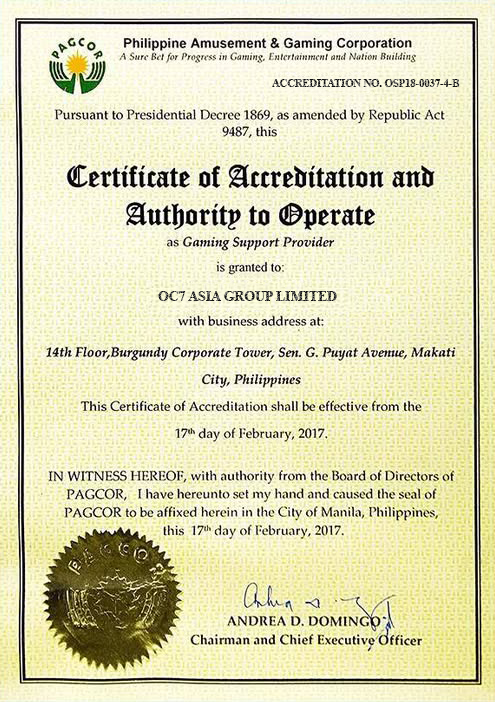
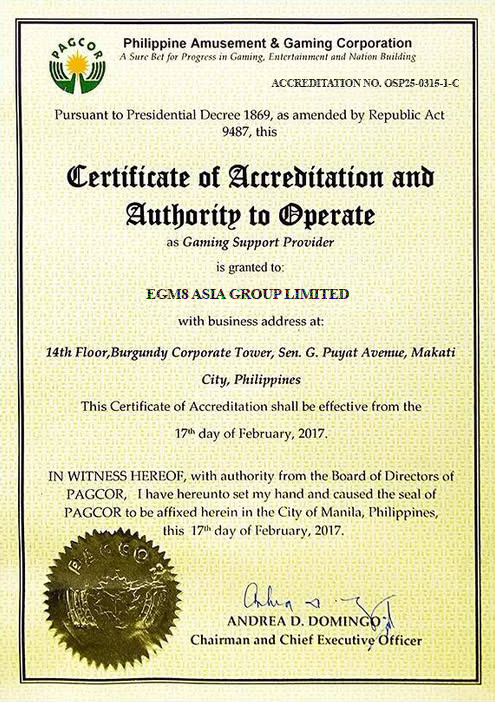
2

Changed region(s): [[0.303, 0.3889, 0.697, 0.4487], [0.5455, 0.0897, 0.7576, 0.1496], [0.7879, 0.0897, 0.9091, 0.1496]]

diff --git a/pages/games/slots.vue b/pages/games/slots.vue
@@ -24,7 +24,9 @@
         />
       </section>
 
-      <section class="py-4 px-16 max-lg:p-4 border-t border-[#3b1c23]">
+      <section
+        class="py-4 px-16 max-lg:pt-4 max-lg:pb-2 max-lg:px-4 border-t border-[#3b1c23]"
+      >
         <div>
           <div class="flex justify-between items-center">
             <div>
@@ -40,9 +42,7 @@
       </section>
 
       <!-- Slot Kiosks-->
-      <section
-        class="py-4 px-8 bg-[#241017] border-t border-b border-[#3b1c23] shadow-sm max-lg:py-2 max-lg:px-3"
-      >
+      <section class="py-4 px-8 max-lg:py-2 max-lg:px-3">
         <div
           class="flex flex-wrap gap-4 justify-center max-lg:flex-nowrap max-lg:overflow-x-auto max-lg:justify-start max-lg:scrollbar-hide max-lg:-mx-2 max-lg:px-2 max-lg:pb-2"
         >
@@ -95,7 +95,7 @@
         v-if="
           currentKiosk && !currentKiosk.isManualGame && !currentKiosk.isHTMLGame
         "
-        class="py-10 px-16 max-xl:px-8 max-lg:px-4 max-lg:py-4 bg-[#1A0D13]"
+        class="py-10 px-16 max-xl:px-8 max-lg:px-4 max-lg:py-4 bg-[#160a0f]"
       >
         <div>
           <div
@@ -131,7 +131,7 @@
 
           <div
             v-if="paginatedGames.length > 0"
-            class="grid grid-cols-8 max-2xl:grid-cols-6 max-lg:grid-cols-5 max-md:grid-cols-4 max-sm:grid-cols-2 gap-5"
+            class="grid grid-cols-8 max-2xl:grid-cols-6 max-lg:grid-cols-5 max-md:grid-cols-4 max-sm:grid-cols-2 gap-5 max-lg:gap-3"
           >
             <div
               v-for="game in paginatedGames"
@@ -143,9 +143,8 @@
                   gameType: game.GameType,
                 })
               "
-              class="bg-[#241017] rounded-xl overflow-hidden cursor-pointer shadow-sm transition-all duration-300 group border border-[#3b1c23]"
+              class="bg-[#241017] rounded-xl overflow-hidden cursor-pointer shadow-sm transition-all duration-300 group border border-[#3b1c23] lg:hover:shadow-md lg:hover:shadow-red-500/20 lg:hover:border-[#ff3344]/50"
             >
-              <!-- Image container with Play Now overlay on hover -->
               <div class="relative overflow-hidden">
                 <div
                   class="w-full aspect-square flex items-center justify-center bg-[#15090e]"
@@ -155,7 +154,7 @@
                       ($i18n.locale === 'zh' && game.GameImageZH) ||
                       ($i18n.locale === 'ms' && game.GameImageMS) ||
                       game.GameImage ||
-                      `https://placehold.co/300x300/e2e8f0/475569?text=${encodeURIComponent(
+                      `https://placehold.co/300x300/241017/f0eaea?text=${encodeURIComponent(
                         getLocalizedGameName(game)
                       )}`
                     "
@@ -204,11 +203,11 @@
                       class="flex items-center bg-[#15090e] rounded-full px-2 py-0.5 border border-[#3b1c23]"
                     >
                       <span
-                        class="text-xs font-medium text-amber-600 flex items-center gap-1"
+                        class="text-xs font-medium text-amber-500 flex items-center gap-1"
                       >
                         <Icon
                           icon="mdi:trophy"
-                          class="text-amber-500 text-2xs"
+                          class="text-amber-500 text-xs"
                         />
                         {{ game.RTP }}
                       </span>
@@ -243,34 +242,37 @@
               {{ $t("clear_search") }}
             </button>
           </div>
+
           <!-- Pagination -->
           <div
             v-if="filteredGameList.length > gamesPerPage"
-            class="flex justify-center mt-4"
+            class="flex justify-center mt-6"
           >
             <div class="inline-flex rounded-lg shadow-sm">
               <button
                 @click="currentPage > 1 && currentPage--"
                 :disabled="currentPage === 1"
-                class="px-4 py-2.5 border border-[#3b1c23] rounded-l-lg text-[#b37a7a] lg:hover:bg-[#2a0f14] disabled:opacity-50 disabled:cursor-not-allowed bg-[#241017]"
+                class="px-4 py-2.5 max-lg:px-3 max-lg:py-2 border border-[#3b1c23] rounded-l-lg text-[#f0eaea] lg:hover:bg-[#3b1c23]/50 disabled:opacity-50 disabled:cursor-not-allowed bg-[#241017] transition-colors"
               >
-                <i class="bi bi-chevron-left"></i>
+                <i class="bi bi-chevron-left max-lg:text-sm"></i>
               </button>
 
               <div
-                class="px-6 py-2.5 border-t border-b border-[#3b1c23] text-[#f0eaea] flex items-center bg-[#241017]"
+                class="px-6 py-2.5 max-lg:px-4 max-lg:py-2 border-t border-b border-[#3b1c23] text-[#f0eaea] flex items-center bg-[#241017]"
               >
-                <span class="font-medium">{{ currentPage }}</span>
-                <span class="mx-1">/</span>
-                <span>{{ totalPages }}</span>
+                <span class="font-medium max-lg:text-sm">{{
+                  currentPage
+                }}</span>
+                <span class="mx-1 max-lg:mx-0.5 max-lg:text-sm">/</span>
+                <span class="max-lg:text-sm">{{ totalPages }}</span>
               </div>
 
               <button
                 @click="currentPage < totalPages && currentPage++"
                 :disabled="currentPage === totalPages"
-                class="px-4 py-2.5 border border-[#3b1c23] rounded-r-lg text-[#b37a7a] lg:hover:bg-[#2a0f14] disabled:opacity-50 disabled:cursor-not-allowed bg-[#241017]"
+                class="px-4 py-2.5 max-lg:px-3 max-lg:py-2 border border-[#3b1c23] rounded-r-lg text-[#f0eaea] lg:hover:bg-[#3b1c23]/50 disabled:opacity-50 disabled:cursor-not-allowed bg-[#241017] transition-colors"
               >
-                <i class="bi bi-chevron-right"></i>
+                <i class="bi bi-chevron-right max-lg:text-sm"></i>
               </button>
             </div>
           </div>

diff --git a/pages/games/fishing.vue b/pages/games/fishing.vue
@@ -40,9 +40,7 @@
       </section>
 
       <!-- Fishing Kiosks-->
-      <section
-        class="py-4 px-8 bg-[#241017]/60 border-t border-b border-[#3b1c23] shadow-lg shadow-red-500/10 max-lg:py-2 max-lg:px-3"
-      >
+      <section class="py-4 px-8 max-lg:py-2 max-lg:px-3">
         <div
           class="flex flex-wrap gap-4 justify-center max-lg:flex-nowrap max-lg:overflow-x-auto max-lg:justify-start max-lg:scrollbar-hide max-lg:-mx-2 max-lg:px-2 max-lg:pb-1"
         >
@@ -56,8 +54,8 @@
               class="flex items-center gap-2 px-4 py-2 rounded-lg transition-all duration-200 max-lg:px-3 max-lg:py-1.5"
               :class="
                 currentKiosk?._id === provider._id
-                  ? 'bg-[#ff3344]/10 border-2 border-[#ff3344]'
-                  : 'bg-[#15090e]/50 lg:hover:bg-[#3b1c23]/50 border-2 border-transparent'
+                  ? 'bg-[#a1122d] border-2 border-[#ff3344]'
+                  : 'bg-[#15090e] lg:hover:bg-[#2a0f14] border-2 border-[#3b1c23]'
               "
             >
               <div
@@ -73,8 +71,8 @@
                 class="text-sm font-medium max-lg:text-xs max-lg:whitespace-nowrap"
                 :class="
                   currentKiosk?._id === provider._id
-                    ? 'text-[#ff3344]'
-                    : 'text-[#f0eaea]'
+                    ? 'text-white'
+                    : 'text-[#b37a7a]'
                 "
               >
                 {{ provider.name }}
@@ -93,7 +91,7 @@
       <!-- Game List -->
       <section
         v-if="currentKiosk && !currentKiosk.isManualGame"
-        class="py-10 px-16 max-xl:px-8 max-lg:px-4 max-lg:py-4 bg-gradient-to-r from-[#1A0D13] to-[#241017]"
+        class="py-10 px-16 max-xl:px-8 max-lg:px-4 max-lg:py-4 bg-[#160a0f]"
       >
         <div>
           <div
@@ -247,25 +245,27 @@
               <button
                 @click="currentPage > 1 && currentPage--"
                 :disabled="currentPage === 1"
-                class="px-4 py-2.5 border border-[#3b1c23] rounded-l-lg text-[#f0eaea] lg:hover:bg-[#3b1c23]/50 disabled:opacity-50 disabled:cursor-not-allowed bg-[#15090e]/50"
+                class="px-4 py-2.5 max-lg:px-3 max-lg:py-2 border border-[#3b1c23] rounded-l-lg text-[#f0eaea] lg:hover:bg-[#3b1c23]/50 disabled:opacity-50 disabled:cursor-not-allowed bg-[#15090e]/50"
               >
-                <i class="bi bi-chevron-left"></i>
+                <i class="bi bi-chevron-left max-lg:text-sm"></i>
               </button>
 
               <div
-                class="px-6 py-2.5 border-t border-b border-[#3b1c23] text-[#f0eaea] flex items-center bg-[#15090e]/50"
+                class="px-6 py-2.5 max-lg:px-4 max-lg:py-2 border-t border-b border-[#3b1c23] text-[#f0eaea] flex items-center bg-[#15090e]/50"
               >
-                <span class="font-medium">{{ currentPage }}</span>
-                <span class="mx-1">/</span>
-                <span>{{ totalPages }}</span>
+                <span class="font-medium max-lg:text-sm">{{
+                  currentPage
+                }}</span>
+                <span class="mx-1 max-lg:mx-0.5 max-lg:text-sm">/</span>
+                <span class="max-lg:text-sm">{{ totalPages }}</span>
               </div>
 
               <button
                 @click="currentPage < totalPages && currentPage++"
                 :disabled="currentPage === totalPages"
-                class="px-4 py-2.5 border border-[#3b1c23] rounded-r-lg text-[#f0eaea] lg:hover:bg-[#3b1c23]/50 disabled:opacity-50 disabled:cursor-not-allowed bg-[#15090e]/50"
+                class="px-4 py-2.5 max-lg:px-3 max-lg:py-2 border border-[#3b1c23] rounded-r-lg text-[#f0eaea] lg:hover:bg-[#3b1c23]/50 disabled:opacity-50 disabled:cursor-not-allowed bg-[#15090e]/50"
               >
-                <i class="bi bi-chevron-right"></i>
+                <i class="bi bi-chevron-right max-lg:text-sm"></i>
               </button>
             </div>
           </div>

diff --git a/pages/games/lottery.vue b/pages/games/lottery.vue
@@ -55,8 +55,8 @@
               class="flex items-center gap-2 px-4 py-2 rounded-lg transition-all duration-200 max-lg:px-3 max-lg:py-1.5"
               :class="
                 currentKiosk?._id === provider._id
-                  ? 'bg-[#ff3344]/10 border-2 border-[#ff3344]'
-                  : 'bg-[#15090e]/50 lg:hover:bg-[#3b1c23]/50 border-2 border-transparent'
+                  ? 'bg-[#a1122d] border-2 border-[#ff3344]'
+                  : 'bg-[#15090e] lg:hover:bg-[#2a0f14] border-2 border-[#3b1c23]'
               "
             >
               <div
@@ -72,8 +72,8 @@
                 class="text-sm font-medium max-lg:text-xs max-lg:whitespace-nowrap"
                 :class="
                   currentKiosk?._id === provider._id
-                    ? 'text-[#ff3344]'
-                    : 'text-[#f0eaea]'
+                    ? 'text-white'
+                    : 'text-[#b37a7a]'
                 "
               >
                 {{ provider.name }}
@@ -92,7 +92,7 @@
       <!-- Game List -->
       <section
         v-if="currentKiosk && !currentKiosk.isHTMLGame"
-        class="py-10 px-16 max-xl:px-8 max-lg:px-4 max-lg:py-4 bg-gradient-to-r from-[#1A0D13] to-[#241017]"
+        class="py-10 px-16 max-xl:px-8 max-lg:px-4 max-lg:py-4 bg-[#160a0f]"
       >
         <div>
           <div
@@ -249,25 +249,27 @@
               <button
                 @click="currentPage > 1 && currentPage--"
                 :disabled="currentPage === 1"
-                class="px-4 py-2.5 border border-[#3b1c23] rounded-l-lg text-[#f0eaea] lg:hover:bg-[#3b1c23]/50 disabled:opacity-50 disabled:cursor-not-allowed bg-[#15090e]/50"
+                class="px-4 py-2.5 max-lg:px-3 max-lg:py-2 border border-[#3b1c23] rounded-l-lg text-[#f0eaea] lg:hover:bg-[#3b1c23]/50 disabled:opacity-50 disabled:cursor-not-allowed bg-[#15090e]/50 transition-colors"
               >
-                <i class="bi bi-chevron-left"></i>
+                <i class="bi bi-chevron-left max-lg:text-sm"></i>
               </button>
 
               <div
-                class="px-6 py-2.5 border-t border-b border-[#3b1c23] text-[#f0eaea] flex items-center bg-[#15090e]/50"
+                class="px-6 py-2.5 max-lg:px-4 max-lg:py-2 border-t border-b border-[#3b1c23] text-[#f0eaea] flex items-center bg-[#15090e]/50"
               >
-                <span class="font-medium">{{ currentPage }}</span>
-                <span class="mx-1">/</span>
-                <span>{{ totalPages }}</span>
+                <span class="font-medium max-lg:text-sm">{{
+                  currentPage
+                }}</span>
+                <span class="mx-1 max-lg:mx-0.5 max-lg:text-sm">/</span>
+                <span class="max-lg:text-sm">{{ totalPages }}</span>
               </div>
 
               <button
                 @click="currentPage < totalPages && currentPage++"
                 :disabled="currentPage === totalPages"
-                class="px-4 py-2.5 border border-[#3b1c23] rounded-r-lg text-[#f0eaea] lg:hover:bg-[#3b1c23]/50 disabled:opacity-50 disabled:cursor-not-allowed bg-[#15090e]/50"
+                class="px-4 py-2.5 max-lg:px-3 max-lg:py-2 border border-[#3b1c23] rounded-r-lg text-[#f0eaea] lg:hover:bg-[#3b1c23]/50 disabled:opacity-50 disabled:cursor-not-allowed bg-[#15090e]/50 transition-colors"
               >
-                <i class="bi bi-chevron-right"></i>
+                <i class="bi bi-chevron-right max-lg:text-sm"></i>
               </button>
             </div>
           </div>

diff --git a/components/SeoContent.vue b/components/SeoContent.vue
@@ -1,7 +1,14 @@
 <template>
-  <section class="py-4 containerWid max-lg:pt-2 max-lg:pb-6">
+  <section
+    v-if="
+      seoData &&
+      seoData.isVisible &&
+      seoData.contentBlocks &&
+      seoData.contentBlocks.length > 0
+    "
+    class="py-4 containerWid max-lg:pt-2 max-lg:pb-6"
+  >
     <div
-      v-if="seoData && seoData.contentBlocks.length > 0"
       class="bg-[#241017]/60 border border-[#3b1c23] rounded-lg p-6 max-lg:p-4 max-md:p-3 text-[#b37a7a]"
     >
       <div
@@ -31,20 +38,6 @@
           {{ isExpanded ? $t("show_less") : $t("read_more") }}
         </button>
       </div>
-    </div>
-
-    <div
-      v-else-if="loading"
-      class="mt-4 max-md:mt-3 p-6 max-lg:p-4 max-md:p-3 text-center text-[#b37a7a] text-sm max-md:text-xs"
-    >
-      {{ $t("loading") }}...
-    </div>
-
-    <div
-      v-else-if="error"
-      class="mt-4 max-md:mt-3 p-6 max-lg:p-4 max-md:p-3 text-center text-[#ff3344] text-sm max-md:text-xs"
-    >
-      {{ error }}
     </div>
   </section>
 </template>
@@ -79,6 +72,7 @@ async function fetchSeoContent() {
     error.value = null;
     const pageType = getSeoPageType(route.path);
     const { data } = await get(`seo-pages/${pageType}`);
+    console.log(data);
     if (data.success) {
       seoData.value = data.data;
     }

diff --git a/pages/license.vue b/pages/license.vue
@@ -77,7 +77,7 @@
                         ></i>
                         <span
                           ><strong>{{ $t("license_number") }}:</strong>
-                          OSP18-0037-4-B</span
+                          OSP25-0315-1-C</span
                         >
                       </li>
                       <li class="flex items-start">
@@ -339,7 +339,7 @@ useHead({
     {
       name: "description",
       content:
-        "EGM8 operates under official PAGCOR gaming license OSP18-0037-4-B, ensuring legal, regulated, and secure gaming services. Fully licensed by Philippine Amusement & Gaming Corporation for your protection and peace of mind.",
+        "EGM8 operates under official PAGCOR gaming license OSP25-0315-1-C, ensuring legal, regulated, and secure gaming services. Fully licensed by Philippine Amusement & Gaming Corporation for your protection and peace of mind.",
     },
     {
       name: "keywords",

diff --git a/pages/promotions.vue b/pages/promotions.vue
@@ -488,14 +488,12 @@ button {
 
 .line-clamp-1 {
   display: -webkit-box;
-  -webkit-line-clamp: 1;
   -webkit-box-orient: vertical;
   overflow: hidden;
 }
 
 .line-clamp-2 {
   display: -webkit-box;
-  -webkit-line-clamp: 2;
   -webkit-box-orient: vertical;
   overflow: hidden;
 }
